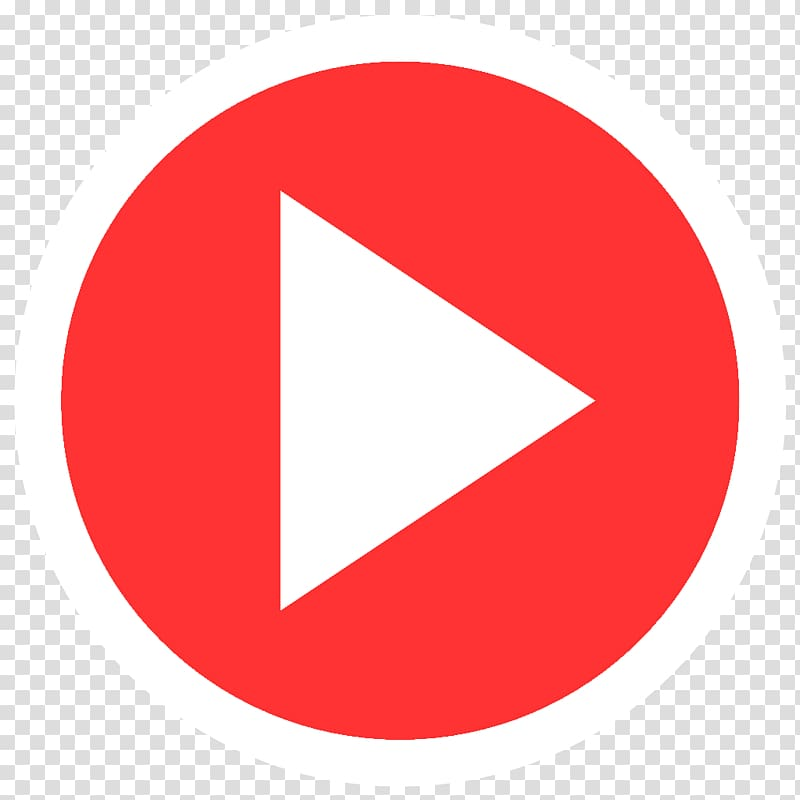
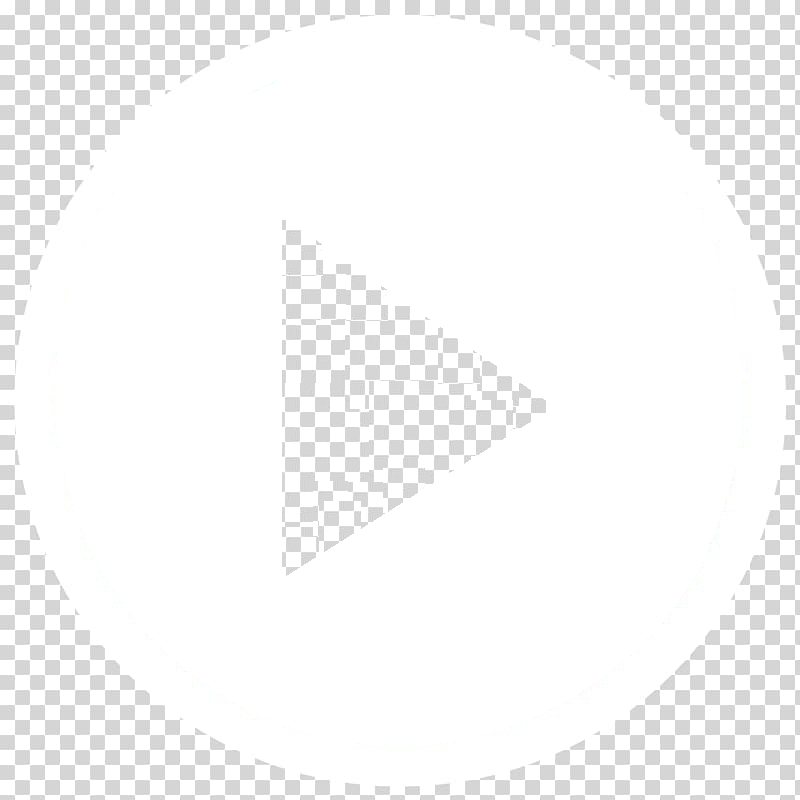
upgrade player

diff --git a/views/index.html b/views/index.html
@@ -3,13 +3,64 @@
 <head>
     <script src="../js/aframe100.js"></script><!--https://aframe.io/releases/1.0.0/-->
     <script src="../js/aframe-ar.js"></script><!-- https://raw.githack.com/jeromeetienne/AR.js/2.2.0/aframe/build/-->
+    <style>
+        * {
+            margin: 0;
+            padding: 0;
+        }
+        
+        #play-button{
+            position: absolute;
+            bottom: 10%;
+            left: 50%;
+            margin-left: -50px;
+            width: 100px;
+            height: 100px;
+            border-radius: 50%;
+            border: 3px white solid;
+            /*background-color: rgba(255, 255, 255, 0.2);
+            color: white;*/
+            text-align: center;
+            line-height: 100px;
+            font-family: monospace;
+            cursor: pointer;
+            z-index: 500;
+            /*transition: background-color 0.5s, color 0.5s;*/
+            background-image: url("../media/img/play-button.png");
+            background-size: 100% 100%;
+            background-repeat: no-repeat;
+            background-position: center center;
+        }
+        
+        #play-button:hover{
+            /*background-color: rgba(255, 255, 255, 1.0);
+            color: black;*/
+            background-image: url("../media/img/pause-button.png");
+            background-size: 100% 100%;
+            background-repeat: no-repeat;
+            background-position: center center;
+        }
+    </style>
     <script>
         document.addEventListener("DOMContentLoaded", function(){
             console.log("Hello, World!");
+            let videoPlaying = false;
+            
+            document.getElementById("play-button").addEventListener("click", function(){
+                if(videoPlaying){
+                    document.getElementById("test-video").pause();
+                    videoPlaying = false;
+                }
+                else{
+                    document.getElementById("test-video").play();
+                    videoPlaying = true;
+                }
+            });
         });
     </script>
 </head>
 <body style='margin : 0px; overflow: hidden;'>
+    <div id="play-button"></div>
     <a-scene embedded arjs>
         <a-assets>
             <img id="earth-planet-object-texture" src="../media/texture/earthmap1k.jpg" preload="true" />

diff --git a/views/videoar.html b/views/videoar.html
@@ -11,27 +11,31 @@
         
         #play-button{
             position: absolute;
-            bottom: 5%;
+            bottom: 10%;
             left: 50%;
             margin-left: -50px;
             width: 100px;
             height: 100px;
             border-radius: 50%;
             border: 3px white solid;
-            background-color: rgba(255, 255, 255, 0.2);
-            color: white;
+            /*background-color: rgba(255, 255, 255, 0.2);
+            color: white;*/
             text-align: center;
             line-height: 100px;
             font-family: monospace;
             cursor: pointer;
             z-index: 500;
             /*transition: background-color 0.5s, color 0.5s;*/
+            background-image: url("../media/img/play-button.png");
+            background-size: 100% 100%;
+            background-repeat: no-repeat;
+            background-position: center center;
         }
         
         #play-button:hover{
             /*background-color: rgba(255, 255, 255, 1.0);
             color: black;*/
-            background-image: url("../media/img/play-button.png");
+            background-image: url("../media/img/pause-button.png");
             background-size: 100% 100%;
             background-repeat: no-repeat;
             background-position: center center;
@@ -42,9 +46,17 @@
     <script>
         document.addEventListener("DOMContentLoaded", function(){
             console.log("Hello, World!");
+            let videoPlaying = false;
             
             document.getElementById("play-button").addEventListener("click", function(){
-                document.getElementById("test-video").play();
+                if(videoPlaying){
+                    document.getElementById("test-video").pause();
+                    videoPlaying = false;
+                }
+                else{
+                    document.getElementById("test-video").play();
+                    videoPlaying = true;
+                }
             });
         });
     </script>
